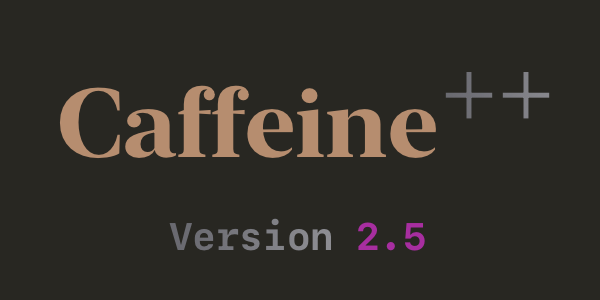
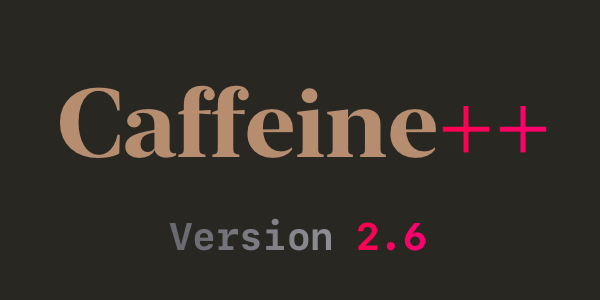
App update

Changed region(s): [[0.72, 0.24, 0.93, 0.51], [0.6, 0.72, 0.72, 0.84]]

diff --git a/index.html b/index.html
@@ -18,7 +18,7 @@ layout: default
         <div class="app1">
         <a href="/caffeine++"><img class="hero-img" src="images/caffeine-hero.png" alt="Caffeine++, version 2.5"></a>
         <p class="message">
-        🧊 Now with cold drinks. <a href="/blog/caffeine-2.5.4">2.5.4 update</a>
+        🚀 Now with iOS 17, watchOS 10 support. <a href="/blog/caffeine++-2.6">2.6 update</a>
         </p>
         </div>
         <div class="app2">

diff --git a/_posts/2023-10-14-caffeine++-2.6.md b/_posts/2023-10-14-caffeine++-2.6.md
@@ -1,0 +1,14 @@
+---
+layout: post
+title: "Caffeine++ 2.6"
+date: 2023-10-14T11:0:11+0100
+---
+
+🚀 Now with iOS 17, watchOS 10 support. [Download on the App Store for free.](https://apps.apple.com/app/caffeine/id1594448346)
+
+• Updated Shortcut actions:
+- Log my favourite
+- Log a drink
+- Log with date
+
+💡 Tip. Create shortcuts from the commands above giving them your name, e.g. "I Forgot My Coffee", then use it with Siri.

diff --git a/_posts/2023-07-24-caffeine-2.5.4.md b/_posts/2023-07-24-caffeine-2.5.4.md
@@ -17,6 +17,6 @@ date: 2023-07-24T8:50:00+0100
 - Recent Drinks are now correctly sorted by date
 - Fixes the status message not showing the latest drink when logging in using Custom Date
 
-💡 A tip. You can assign a tag to any of your favourites with a long press.
+💡 Tip. You can assign a tag to any of your favourites with a long press.
 
 Stay cool this summer.
